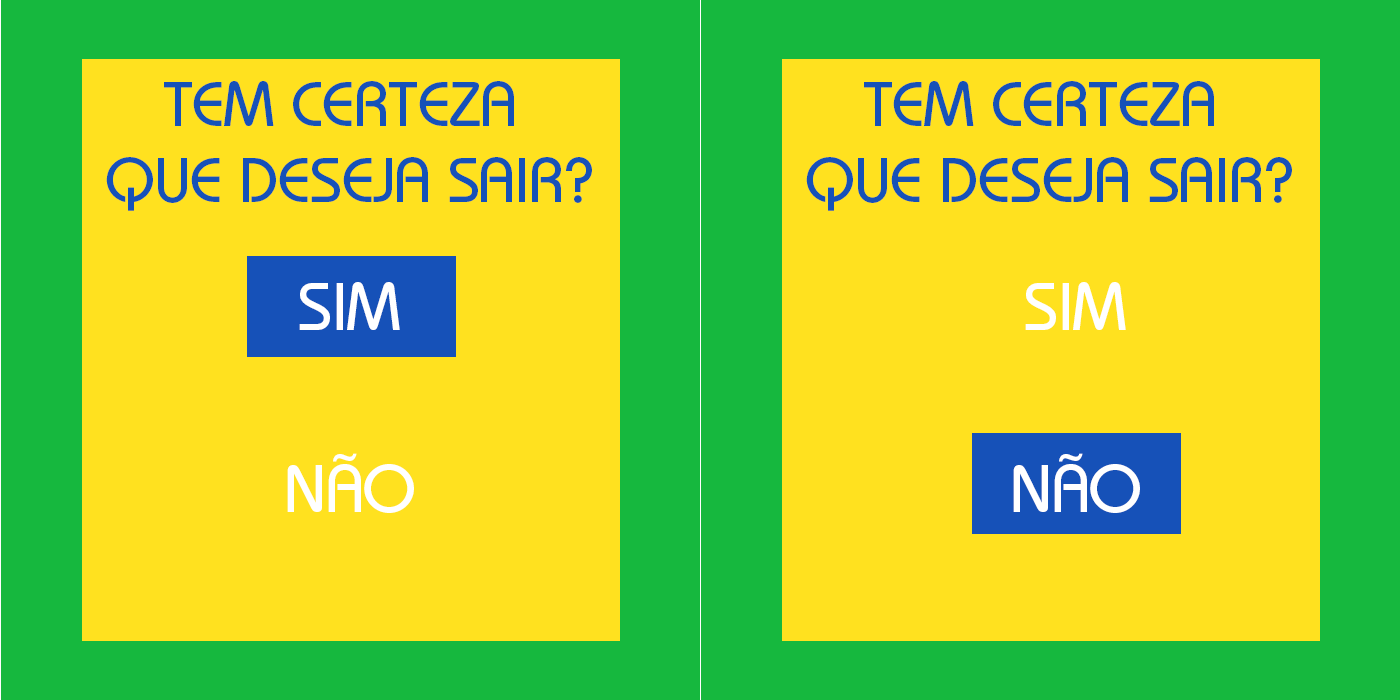
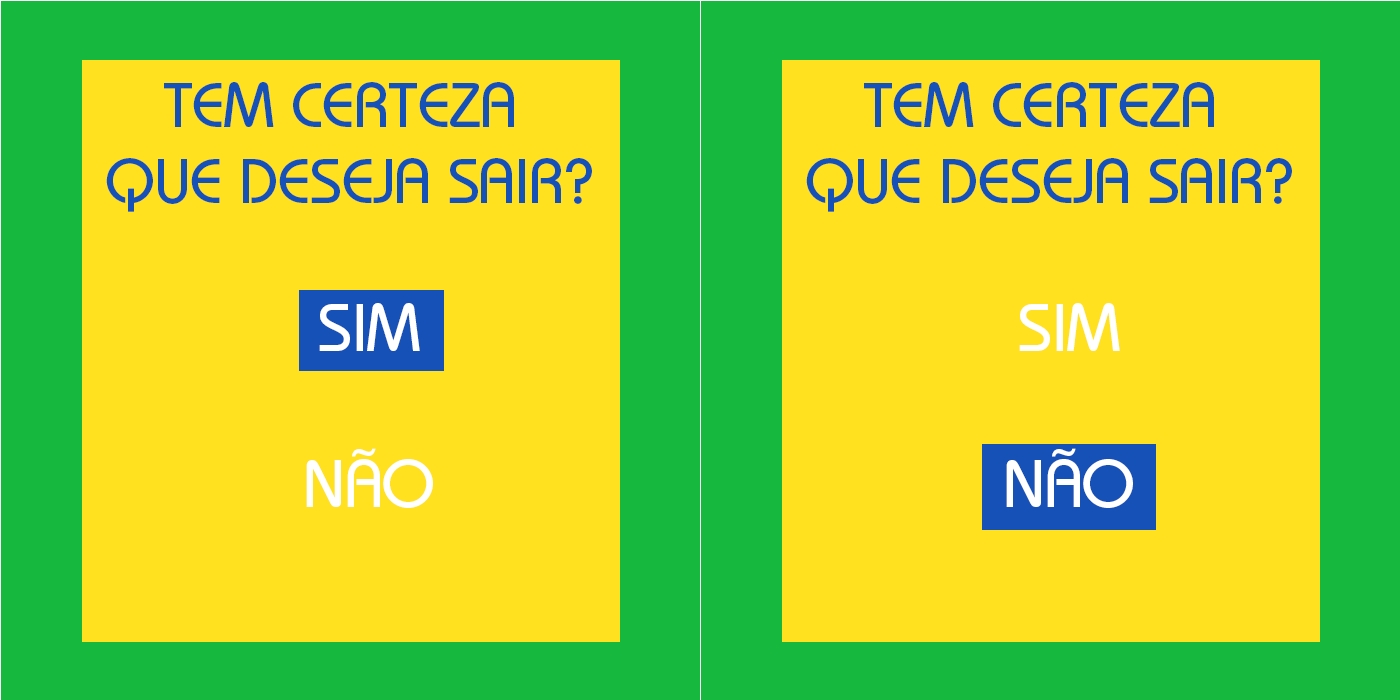
Todas telas de seleção prontas e adicionado escolha de dificuldade

diff --git a/src/main.cpp b/src/main.cpp
@@ -19,10 +19,10 @@ using namespace std;
 //variaveis controle
 GLint pause=0,vidas=3,tempo=1,reinicio=0;
 //variaveis de imagem
-GLint imgVidas,imgFundo,imgMenu,imgComoJogar,imgSelecaoPersonagem,imgConfirmaPersonagem,imgPause,imgPerdeuVida;
+GLint imgVidas,imgFundo,imgMenu,imgComoJogar,imgSelecaoPersonagem,imgDificuldade,imgPause,imgPerdeuVida;
 GLint imgPerdeuJogo,imgGanhouJogo,imgConfirmaSaida,imgConfirmaReboot;
 //variavel de tela
-enum Tela { MENU, JOGO,COMO_JOGAR,SELECIONAR_PERSONAGEM,CONFIRMAR_PERSONAGEM,PERDEU_VIDA,PAUSE, VITORIA, GAMEOVER,CONFIRMAR_SAIDA,CONFIRMAR_REBOOT };
+enum Tela { MENU, JOGO,COMO_JOGAR,SELECIONAR_PERSONAGEM,SELECIONAR_DIFICULDADE,PERDEU_VIDA,PAUSE, VITORIA, GAMEOVER,CONFIRMAR_SAIDA,CONFIRMAR_REBOOT };
 Tela telaAtual = MENU;
 //tamanho lado do quadrado
 GLint lado=100;
@@ -30,6 +30,9 @@ GLint lado=100;
 GLint cheat=0;
 //sprite menu
 GLfloat spriteBegin=0,spriteEnd=0.5;
+
+int tempoCriaNovoInimigo=1000;
+int tempoCriaNovoInimigoTeleguiado=10000;
 /************************************************************/
 
 
@@ -53,7 +56,7 @@ GLint escolha_Personagem;
 //setup inicial
 void setup(){
 	setupInimigo(inimigo,&imgJapaPF,&imgJuizMoro);
-	setupDesenho(&imgFundo,&imgVidas,&imgMenu,&imgComoJogar,&imgSelecaoPersonagem,&imgConfirmaPersonagem,
+	setupDesenho(&imgFundo,&imgVidas,&imgMenu,&imgComoJogar,&imgSelecaoPersonagem,&imgDificuldade,
 					&imgPause,&imgPerdeuVida,&imgPerdeuJogo,&imgGanhouJogo,&imgConfirmaSaida,&imgConfirmaReboot);
 }
 
@@ -93,8 +96,8 @@ void desenhaTela(){
 			desenhaFundo(&imgSelecaoPersonagem,&spriteBegin,&spriteEnd);
 			break;
 
-		case CONFIRMAR_PERSONAGEM:
-			desenhaFundo(&imgConfirmaPersonagem,&spriteBegin,&spriteEnd);
+		case SELECIONAR_DIFICULDADE:
+			desenhaFundo(&imgDificuldade,&spriteBegin,&spriteEnd);
 			break;
 
 		case PERDEU_VIDA:
@@ -222,7 +225,8 @@ void teclasEspeciais(int tecla,int x,int y){
 			cheat++;
 		}
 	}
-	if(telaAtual==MENU || telaAtual==SELECIONAR_PERSONAGEM || telaAtual==CONFIRMAR_REBOOT || telaAtual==CONFIRMAR_SAIDA){
+	if(telaAtual==MENU || telaAtual==SELECIONAR_PERSONAGEM || telaAtual==CONFIRMAR_REBOOT 
+					   || telaAtual==CONFIRMAR_SAIDA || telaAtual==SELECIONAR_DIFICULDADE){
 		if(tecla==GLUT_KEY_UP && spriteBegin==0.5){
 			spriteBegin=0;
 			spriteEnd=0.5;
@@ -295,22 +299,23 @@ void teclasJogo(unsigned char tecla,int x,int y){
 			if(tecla==13 && spriteBegin==0){
 				escolha_Personagem=LULA;
 				spriteBegin=0;
-				spriteEnd=1;
-				telaAtual=CONFIRMAR_PERSONAGEM;
+				spriteEnd=(float)1/(float)2;
+				telaAtual=SELECIONAR_DIFICULDADE;
 				
 			}
 			if(tecla==13 && spriteBegin==0.5){
 				escolha_Personagem=AECIO;
-				spriteEnd=1;
 				spriteBegin=0;
-				telaAtual=CONFIRMAR_PERSONAGEM;
+				spriteEnd=(float)1/(float)2;
+				telaAtual=SELECIONAR_DIFICULDADE;
 				printf("%d\n",escolha_Personagem );
 			}
 			break;
 
-		case CONFIRMAR_PERSONAGEM:
-			if(tecla==13){
+		case SELECIONAR_DIFICULDADE:
+			if(tecla==13 && spriteBegin==0 ){
 				setup();
+				pause=0;
 				reinicio=0;
 				tempo=0;
 				vidas=3;
@@ -320,20 +325,34 @@ void teclasJogo(unsigned char tecla,int x,int y){
 				devoCriar=1;
 				spriteBegin=0;
 				spriteEnd=1;
+				tempoCriaNovoInimigo=1000;
+				tempoCriaNovoInimigoTeleguiado=10000;
 				telaAtual=JOGO;
-				setupPersonagem(&imgPersonagem,&personagem.y,&escolha_Personagem);
-				//controle de tempo para criação
-				glutTimerFunc(tempoCriaNovoInimigo, timerCriar, 0);
-				glutTimerFunc(tempoCriaNovoInimigoTeleguiado,timerCriarInimigoTeleguiado,0);
-				//timer para barra de tempo
-				glutTimerFunc(1009,timerTempo,0);
 				
 			}
-			if(tecla=='m' || tecla=='M'){
+			if(tecla==13 && spriteBegin==0.5){
+				setup();
+				pause=0;
+				reinicio=0;
+				tempo=0;
+				vidas=3;
+				telaAtual=JOGO;
+				indexCair=0;
+				indexCriar=0;
+				devoCriar=1;
 				spriteBegin=0;
-				spriteEnd=(float)1/(float)2;
-				telaAtual=MENU;
+				spriteEnd=1;
+				tempoCriaNovoInimigo=700;
+				tempoCriaNovoInimigoTeleguiado=5000;
+				telaAtual=JOGO;
 			}
+			setupPersonagem(&imgPersonagem,&personagem.y,&escolha_Personagem);
+			//controle de tempo para criação
+			glutTimerFunc(tempoCriaNovoInimigo, timerCriar, 0);
+			glutTimerFunc(tempoCriaNovoInimigoTeleguiado,timerCriarInimigoTeleguiado,0);
+			//timer para barra de tempo
+			glutTimerFunc(1009,timerTempo,0);
+
 			break;
 
 		case PERDEU_VIDA:
@@ -348,7 +367,7 @@ void teclasJogo(unsigned char tecla,int x,int y){
 				pause=0;
 				telaAtual=JOGO;
 				glutTimerFunc(tempoCriaNovoInimigo, timerCriar, 0);
-				glutTimerFunc(tempoCriaNovoInimigoTeleguiado,timerCriarInimigoTeleguiado,0);
+				//glutTimerFunc(tempoCriaNovoInimigoTeleguiado,timerCriarInimigoTeleguiado,0);
 				glutTimerFunc(1009,timerTempo,0); 
 				
 			}
@@ -397,7 +416,7 @@ void teclasJogo(unsigned char tecla,int x,int y){
 				reinicio=0;
 				telaAtual=JOGO;
 				glutTimerFunc(tempoCriaNovoInimigo, timerCriar, 0);
-				glutTimerFunc(tempoCriaNovoInimigoTeleguiado,timerCriarInimigoTeleguiado,0);
+				//glutTimerFunc(tempoCriaNovoInimigoTeleguiado,timerCriarInimigoTeleguiado,0);
 				glutTimerFunc(1009,timerTempo,0);
 			}
 			break;

diff --git a/src/desenho.cpp b/src/desenho.cpp
@@ -17,7 +17,7 @@ using namespace std;
 
 
 void setupDesenho(int *imgFundo,int *imgVidas,int *imgMenu,int *imgComoJogar,int *imgSelecaoPersonagem,
-					int *imgConfirmaPersonagem,int *imgPause,int *imgPerdeuVida,int *imgPerdeuJogo,int *imgGanhouJogo,int *imgConfirmaSaida,int *imgConfirmaReboot){
+					int *imgDificuldade,int *imgPause,int *imgPerdeuVida,int *imgPerdeuJogo,int *imgGanhouJogo,int *imgConfirmaSaida,int *imgConfirmaReboot){
 	*imgFundo = SOIL_load_OGL_texture(
 	    "img/tela_fundo.png",
 	    SOIL_LOAD_AUTO,
@@ -64,13 +64,13 @@ void setupDesenho(int *imgFundo,int *imgVidas,int *imgMenu,int *imgComoJogar,int
  	if (*imgSelecaoPersonagem == 0 ) {
     	printf("Erro carregando textura: '%s'\n", SOIL_last_result());
   	}
-  	*imgConfirmaPersonagem = SOIL_load_OGL_texture(
-	    "img/confirma_personagem.png",
+  	*imgDificuldade = SOIL_load_OGL_texture(
+	    "img/modo.png",
 	    SOIL_LOAD_AUTO,
 	    SOIL_CREATE_NEW_ID,
 	    SOIL_FLAG_INVERT_Y
  	);
- 	if (*imgConfirmaPersonagem == 0 ) {
+ 	if (*imgDificuldade == 0 ) {
     	printf("Erro carregando textura: '%s'\n", SOIL_last_result());
   	}
   	*imgPause = SOIL_load_OGL_texture(

diff --git a/src/desenho.h b/src/desenho.h
@@ -1,6 +1,6 @@
 
 void setupDesenho(int *imgFundo,int *imgVidas,int *imgMenu,int *imgComoJogar,int *imgSelecaoPersonagem,
-					int *imgConfirmaPersonagem,int *imgPause,int *imgPerdeuVida,int *imgPerdeuJogo,int *imgGanhouJogo,int *imgConfirmaSaida,int *imgConfirmaReboot);
+					int *imgDificuldade,int *imgPause,int *imgPerdeuVida,int *imgPerdeuJogo,int *imgGanhouJogo,int *imgConfirmaSaida,int *imgConfirmaReboot);
 void desenhaVidas(int *vidas,int *imgVidas);
 void desenhaFundo(int *imgFundo,float *spriteBegin,float *spriteEnd);
 void desenhaTempo(int *tempo);

diff --git a/src/inimigos.h b/src/inimigos.h
@@ -1,8 +1,6 @@
 #define JapaPF 1
 #define JuizMoro 2
 //controle de tempo
-#define tempoCriaNovoInimigo 1000
-#define tempoCriaNovoInimigoTeleguiado 10000
 struct Inimigo{
 	float x;
 	float y;
